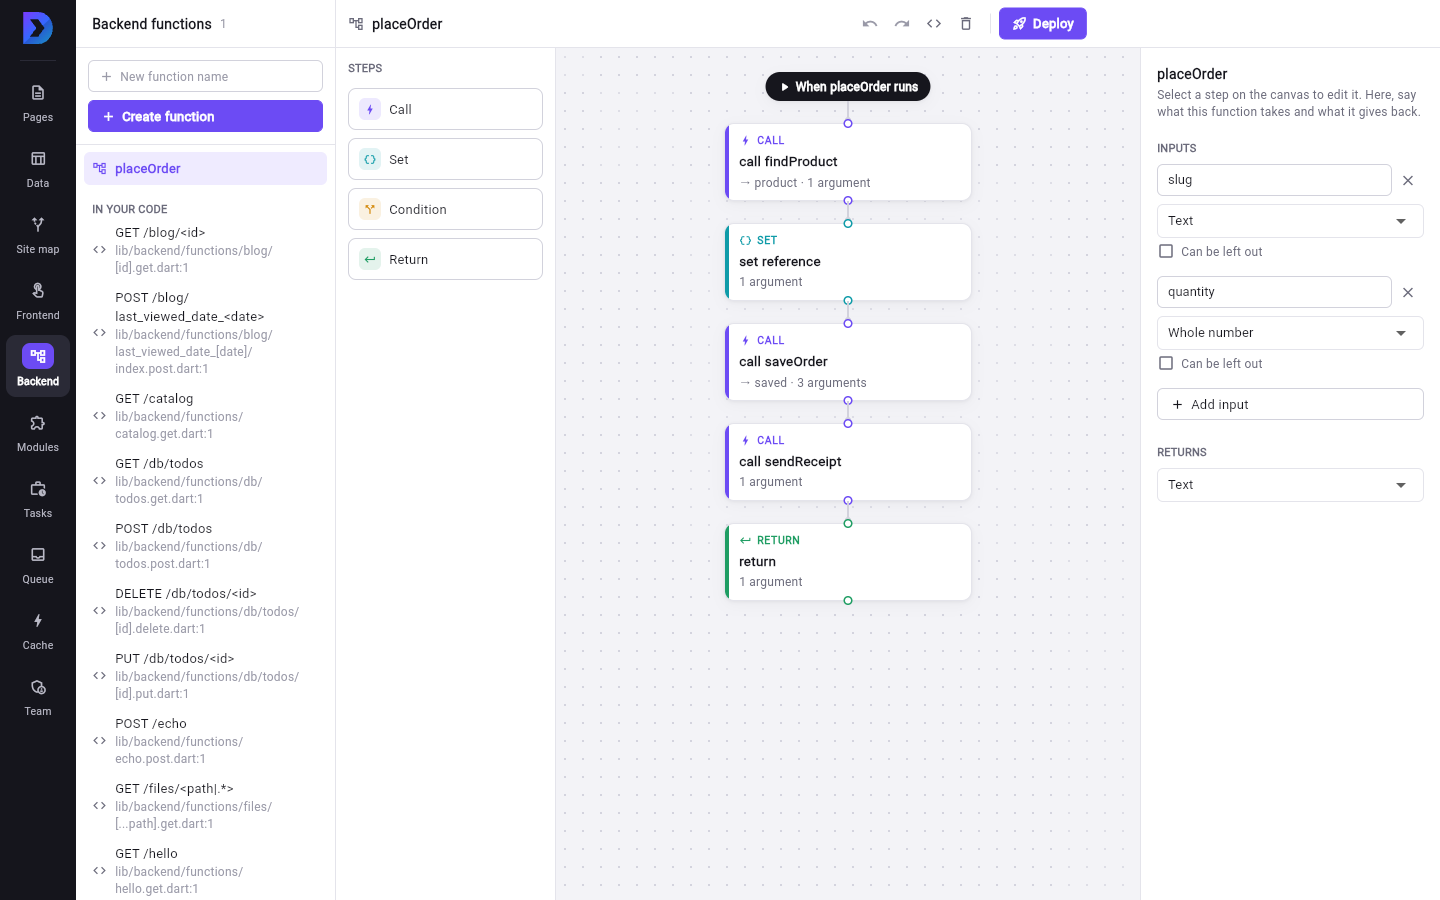
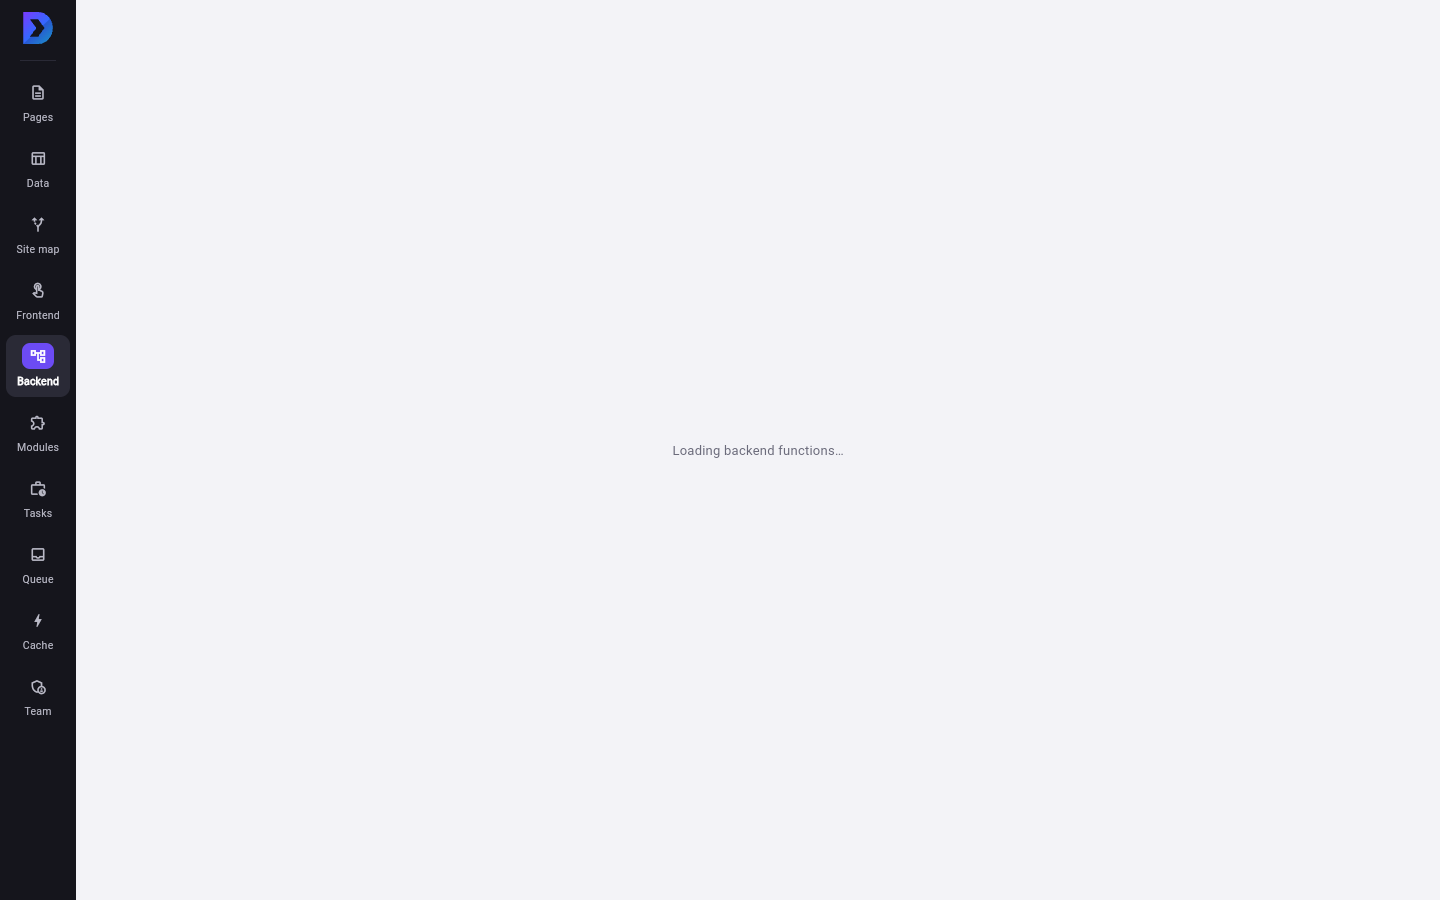
feat(cli): dartvel build --no-prerender, for a build nobody serves
Reading the semantics tree of every page is what puts crawler-visible content
in the HTML, and a build that skipped it and reported success would hide the
failure until somebody checked a search result weeks later. So the build
refuses to ship pages with an empty body, which is right, and it is also six
minutes of a two-core runner for a build that exists to be photographed.

--no-prerender says the pages are not going to be served to anybody, and says
so in the build output. The Studio screenshots job uses it: it captured 0 of 16
routes under resource pressure on the runner and failed a job that never looks
at a page.

The Frontend caption now says what its picture shows. Clicking a function in
the Frontend list does not open it the way the Backend list does, so the
picture is the section with its functions listed, and the Backend one below it
is the builder with a function open.

diff --git a/packages/dartvel_cli/lib/src/commands/build_command.dart b/packages/dartvel_cli/lib/src/commands/build_command.dart
@@ -561,6 +561,13 @@ class BuildCommand extends Command<void> {
       ..addFlag('obfuscate',
           defaultsTo: true, help: 'Obfuscate code (release only)')
       ..addFlag('tree-shake-icons', defaultsTo: true, help: 'Tree shake icons')
+      ..addFlag('prerender',
+          defaultsTo: true,
+          help: 'Read the semantics tree of each page into the HTML a '
+              'crawler sees. --no-prerender skips it, and every page then '
+              'ships with an empty body to anything that does not run '
+              'scripts. For a build nobody serves: a screenshot, a smoke '
+              'test, a local run.')
       ..addFlag('auto-install',
           defaultsTo: null,
           help: 'Install missing build tools without prompting. Defaults to '
@@ -2972,6 +2979,14 @@ class BuildCommand extends Command<void> {
   /// pages fall back to reading string literals out of the page source, which
   /// cannot tell a heading from a sentence and produces no links at all.
   Future<void> _captureSemantics(String root) async {
+    // Asked for explicitly. The build is otherwise right to refuse to ship
+    // pages with no crawler-visible content, and this is the one way to say
+    // the pages are not going to be served to anybody.
+    if (argResults?['prerender'] == false) {
+      Logger.log('   Skipping the semantics capture: --no-prerender. Every '
+          'page in this build has an empty body to a crawler.');
+      return;
+    }
     final web = Directory(p.join(root, 'build', 'web'));
     if (!web.existsSync()) return;
     final routes = dvRoutesToCapture(

diff --git a/sites/dartvel_site/lib/components/docs_cli_reference.dart b/sites/dartvel_site/lib/components/docs_cli_reference.dart
@@ -126,6 +126,8 @@ const List<DocsCliCommand> kCliCommands = <DocsCliCommand>[
       '                                 (defaults to on)',
       '    --[no-]tree-shake-icons      Tree shake icons',
       '                                 (defaults to on)',
+      '    --[no-]prerender             Read the semantics tree of each page into the HTML a crawler sees. --no-prerender skips it, and every page then ships with an empty body to anything that does not run scripts. For a build nobody serves: a screenshot, a smoke test, a local run.',
+      '                                 (defaults to on)',
       '    --[no-]auto-install          Install missing build tools without prompting. Defaults to prompting when interactive, and to installing in CI. Use --no-auto-install to require a pre-provisioned toolchain.',
       '    --cloud                      Build on Dartvel Cloud instead of this machine, which needs no SDK for the target: iOS and macOS build on a macOS worker. Prints the build log as it runs and downloads the artifacts into build/cloud/<target>. Needs a paid Dartvel Cloud plan.',
       '    --cloud-os                   With --cloud and web-server: the operating system of the worker, which is the one the server executable runs on. Defaults to linux.',

diff --git a/sites/dartvel_site/lib/components/studio_sections.dart b/sites/dartvel_site/lib/components/studio_sections.dart
@@ -62,10 +62,11 @@ const List<StudioSection> kStudioSections = <StudioSection>[
   StudioSection(
     label: 'Frontend',
     asset: 'assets/studio/sections/frontend.png',
-    summary: 'The frontend function builder: what a button does, built from '
-        'steps, with its inputs typed. Free, in the Studio your own binary '
-        'serves.',
-    alt: 'The Frontend section of Studio with its function builder',
+    summary: 'The frontend function builder, and the frontend functions this '
+        'app has. What a button does, built from steps; the Backend picture '
+        'below shows one open. Free, in the Studio your own binary serves.',
+    alt: 'The Frontend section of Studio listing a frontend function, with '
+        'Create function above it',
   ),
   StudioSection(
     label: 'Backend',
